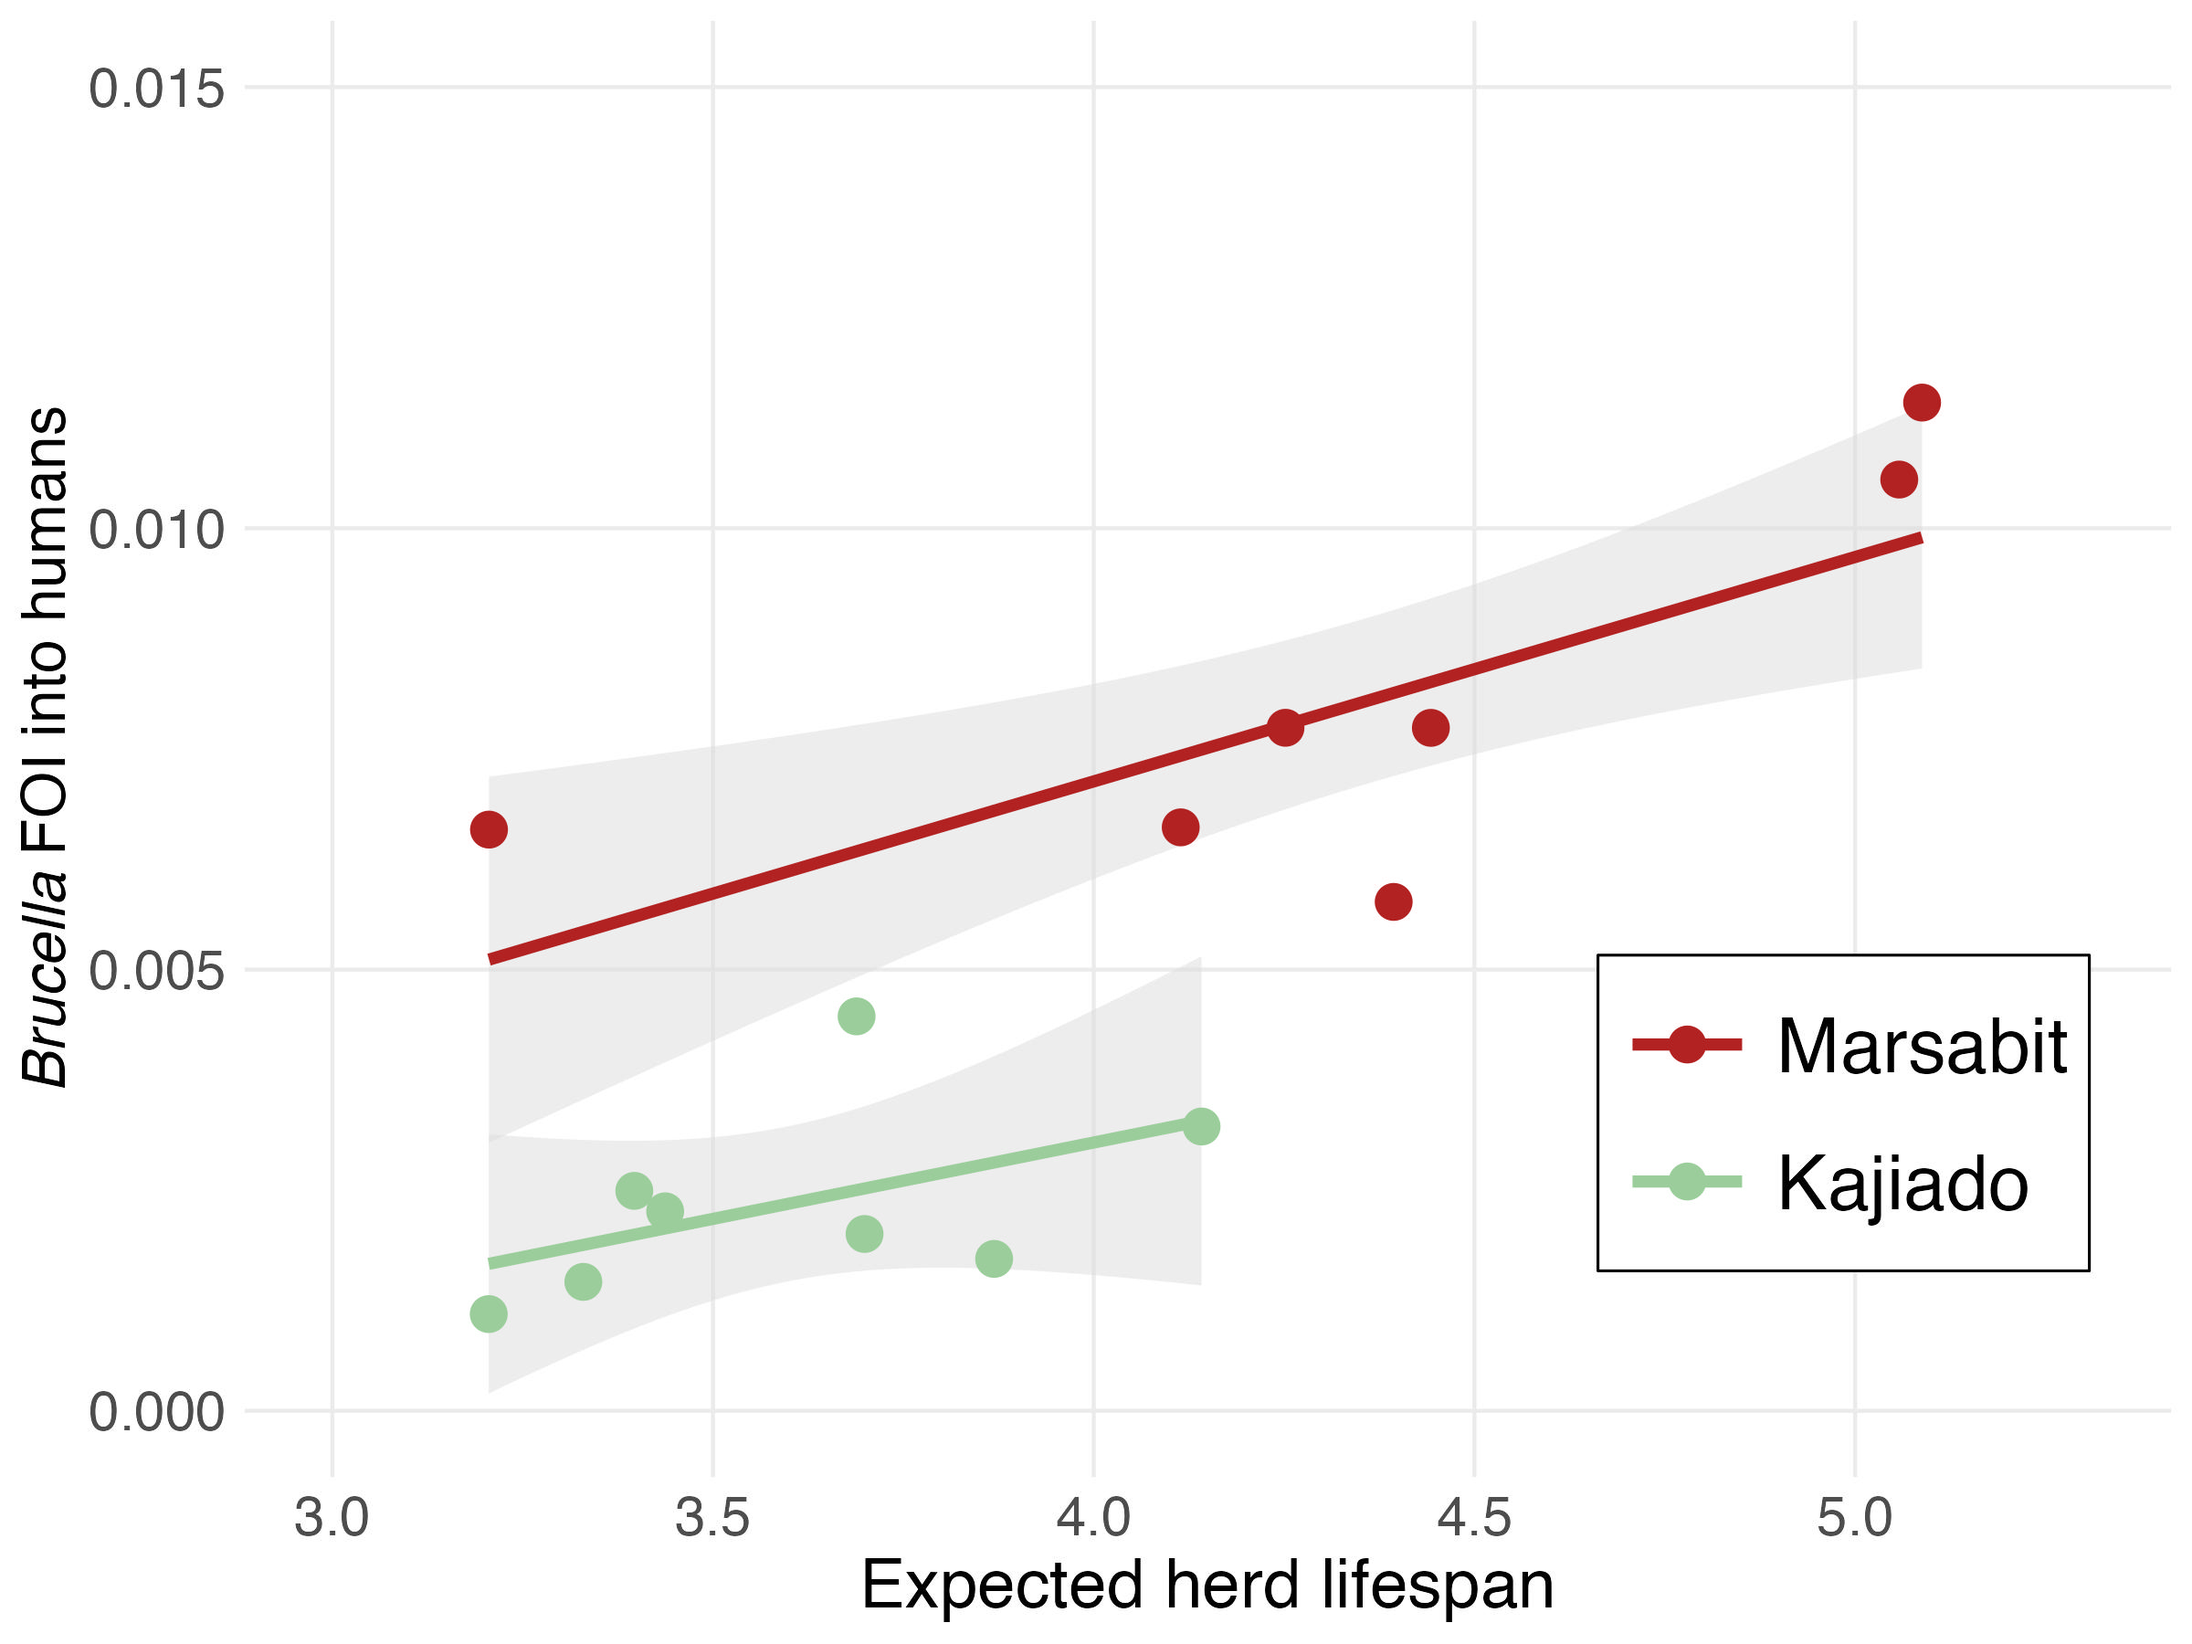
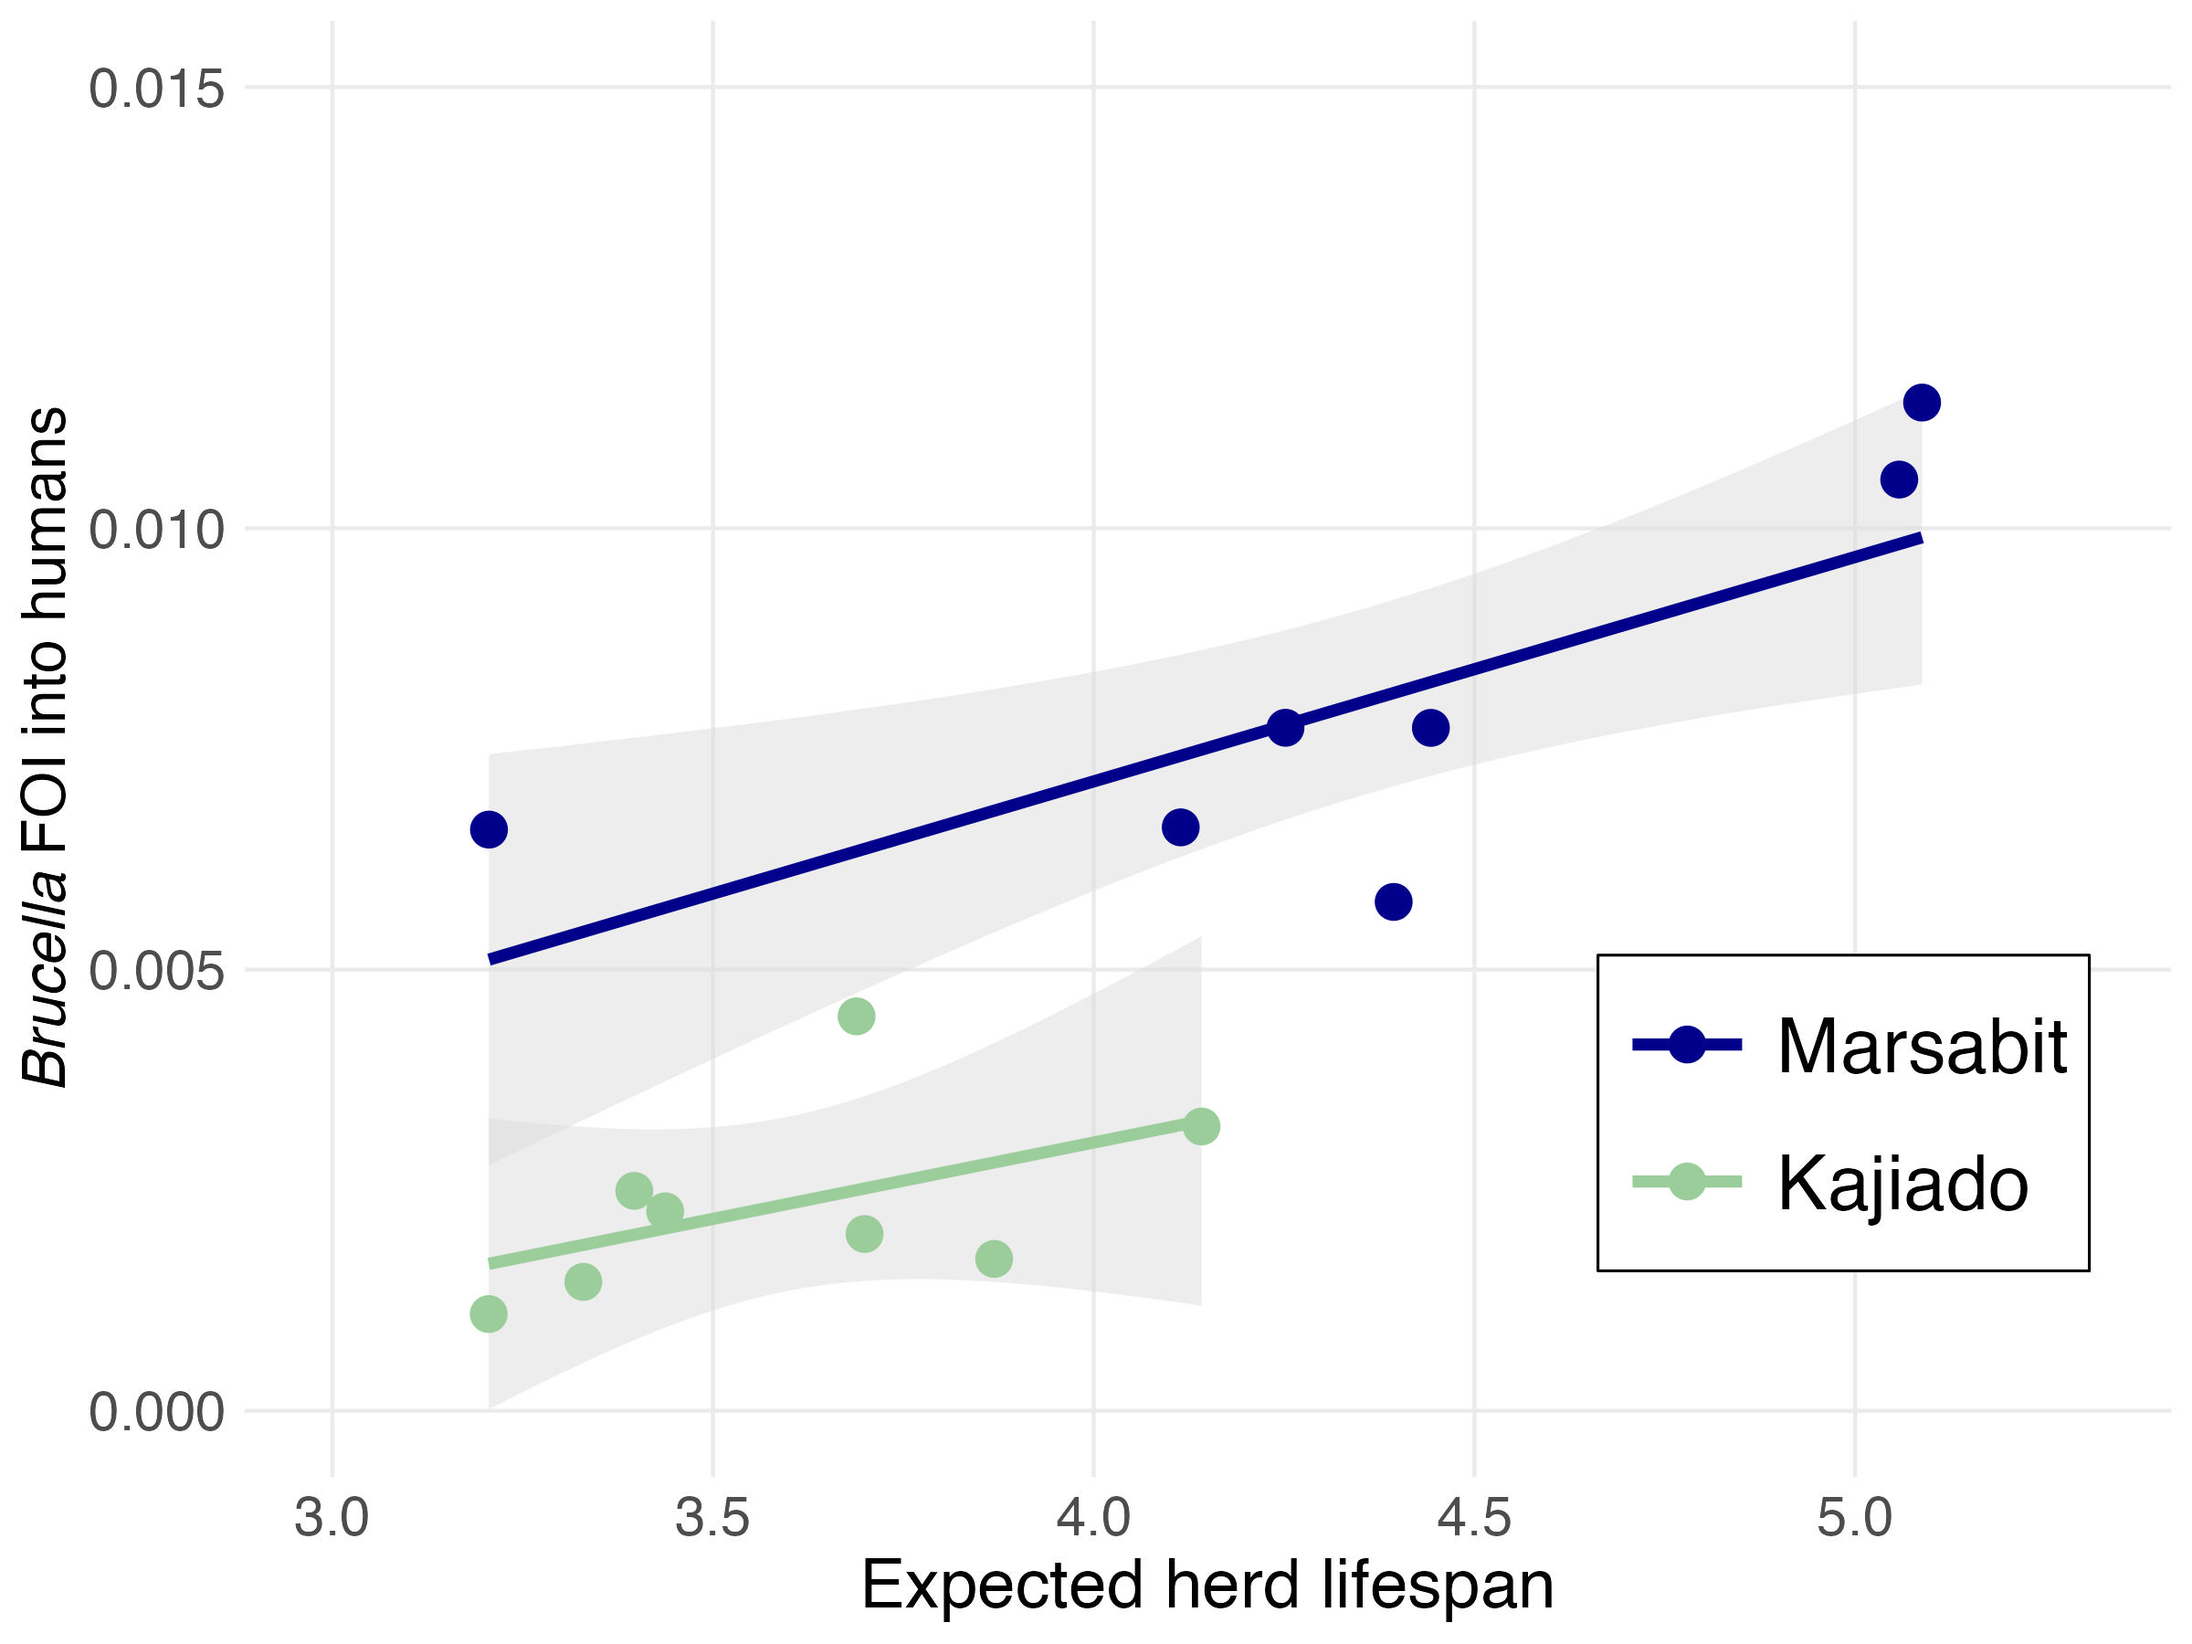
Aesthetic updates to figure 2 and table

diff --git a/Figures/table.tex b/Figures/table.tex
@@ -10,23 +10,13 @@ hline{2}={5}{solid, black, 0.03em, r=-0.5},
 hline{3}={1-7}{solid, black, 0.05em},
 hline{1}={1-7}{solid, black, 0.08em},
 hline{20}={1-7}{solid, black, 0.08em},
-cell{1-2,4-11,13-19}{3}={}{halign=c},
-cell{1-2,4-11,13-19}{4}={}{halign=c},
-cell{1-2,4-11,13-19}{5}={}{halign=c},
-cell{1-2,4-11,13-19}{6}={}{halign=c},
-cell{1-2,4-11,13-19}{7}={}{halign=c},
+hline{12}={1-7}{solid, black, 0.1em},
+column{3-7}={}{halign=c},
 cell{1}{1}={}{halign=c},
 cell{1}{2}={c=4}{halign=c},
-cell{2,4-11,13-19}{2}={}{halign=c},
-cell{3,12}{1}={c=7}{bg=cD2B48C},
-cell{3,12}{2}={}{bg=cD2B48C, halign=c},
-cell{3,12}{3}={}{bg=cD2B48C, halign=c},
-cell{3,12}{4}={}{bg=cD2B48C, halign=c},
-cell{3,12}{5}={}{bg=cD2B48C, halign=c},
-cell{3,12}{6}={}{bg=cD2B48C, halign=c},
-cell{3,12}{7}={}{bg=cD2B48C, halign=c},
+cell{2-19}{2}={}{halign=c},
+cell{3,12}{1}={c=7}{},
 }                     %% tabularray inner close
-\tinytableDefineColor{cD2B48C}{HTML}{D2B48C}
 & Livestock count (prop. of village herd) &  &  &  &  &  \\
 Village & Camel & Cattle & Goat & Sheep & \emph{Brucella} seroprevalence in livestock (no. tested) & \emph{Brucella} seroprevalence in humans (no. tested) \\
 \emph{Kajiado County} & \emph{Kajiado County} & \emph{Kajiado County} & \emph{Kajiado County} & \emph{Kajiado County} & \emph{Kajiado County} & \emph{Kajiado County} \\
